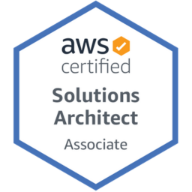
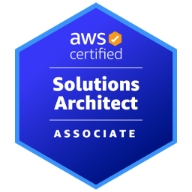
fix: update AWS certification badge link and image in index.html

diff --git a/index.html b/index.html
@@ -75,8 +75,8 @@
           </a>
         </div>
         <div class="aws-badge">
-          <a href="https://www.youracclaim.com/badges/8a29b89e-c32b-44f7-94be-800f7412c16d/linked_in" target="_blank" rel="noopener noreferrer">
-            <img src="assets/img/aws.png" alt="AWS Certified Solutions Architect" title="AWS Certified Solutions Architect">
+          <a href="https://www.credly.com/badges/517e7ddb-d863-4751-af60-fd476dd92cb6/public_url" target="_blank" rel="noopener noreferrer">
+            <img src="assets/img/aws-certified-solutions-architect-associate.png" alt="AWS Certified Solutions Architect" title="AWS Certified Solutions Architect">
           </a>
         </div>
       </div>
